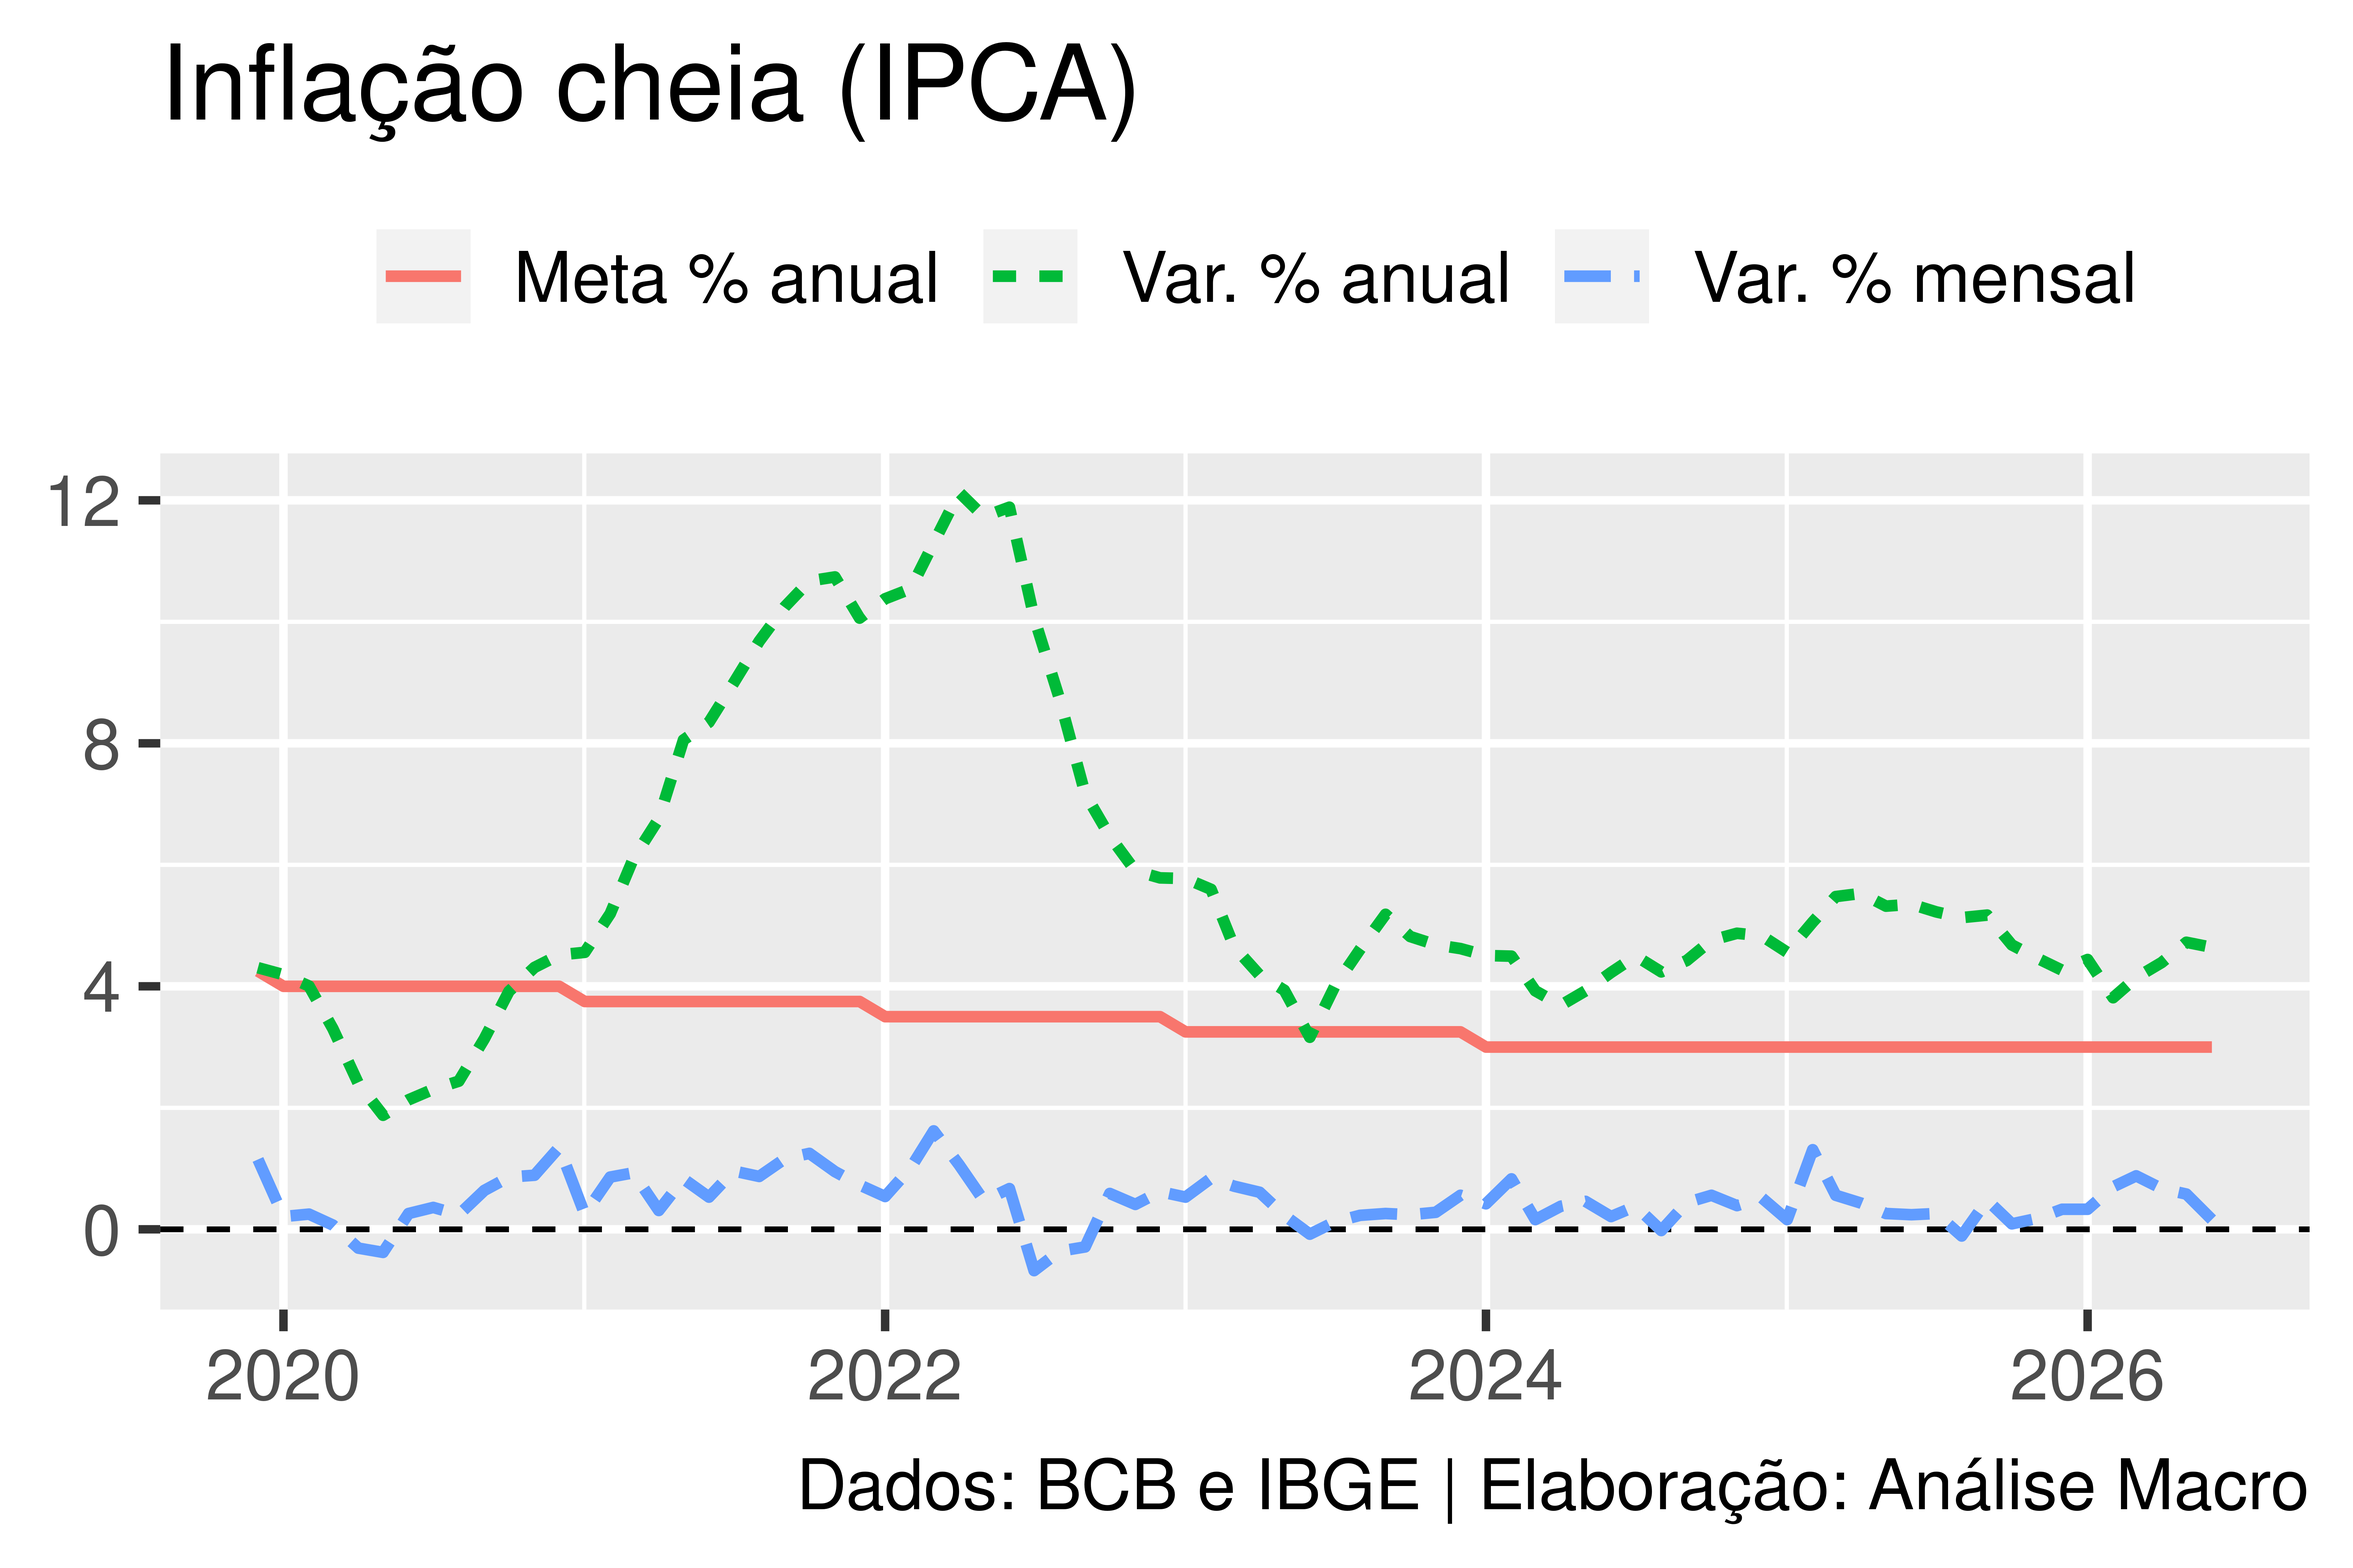
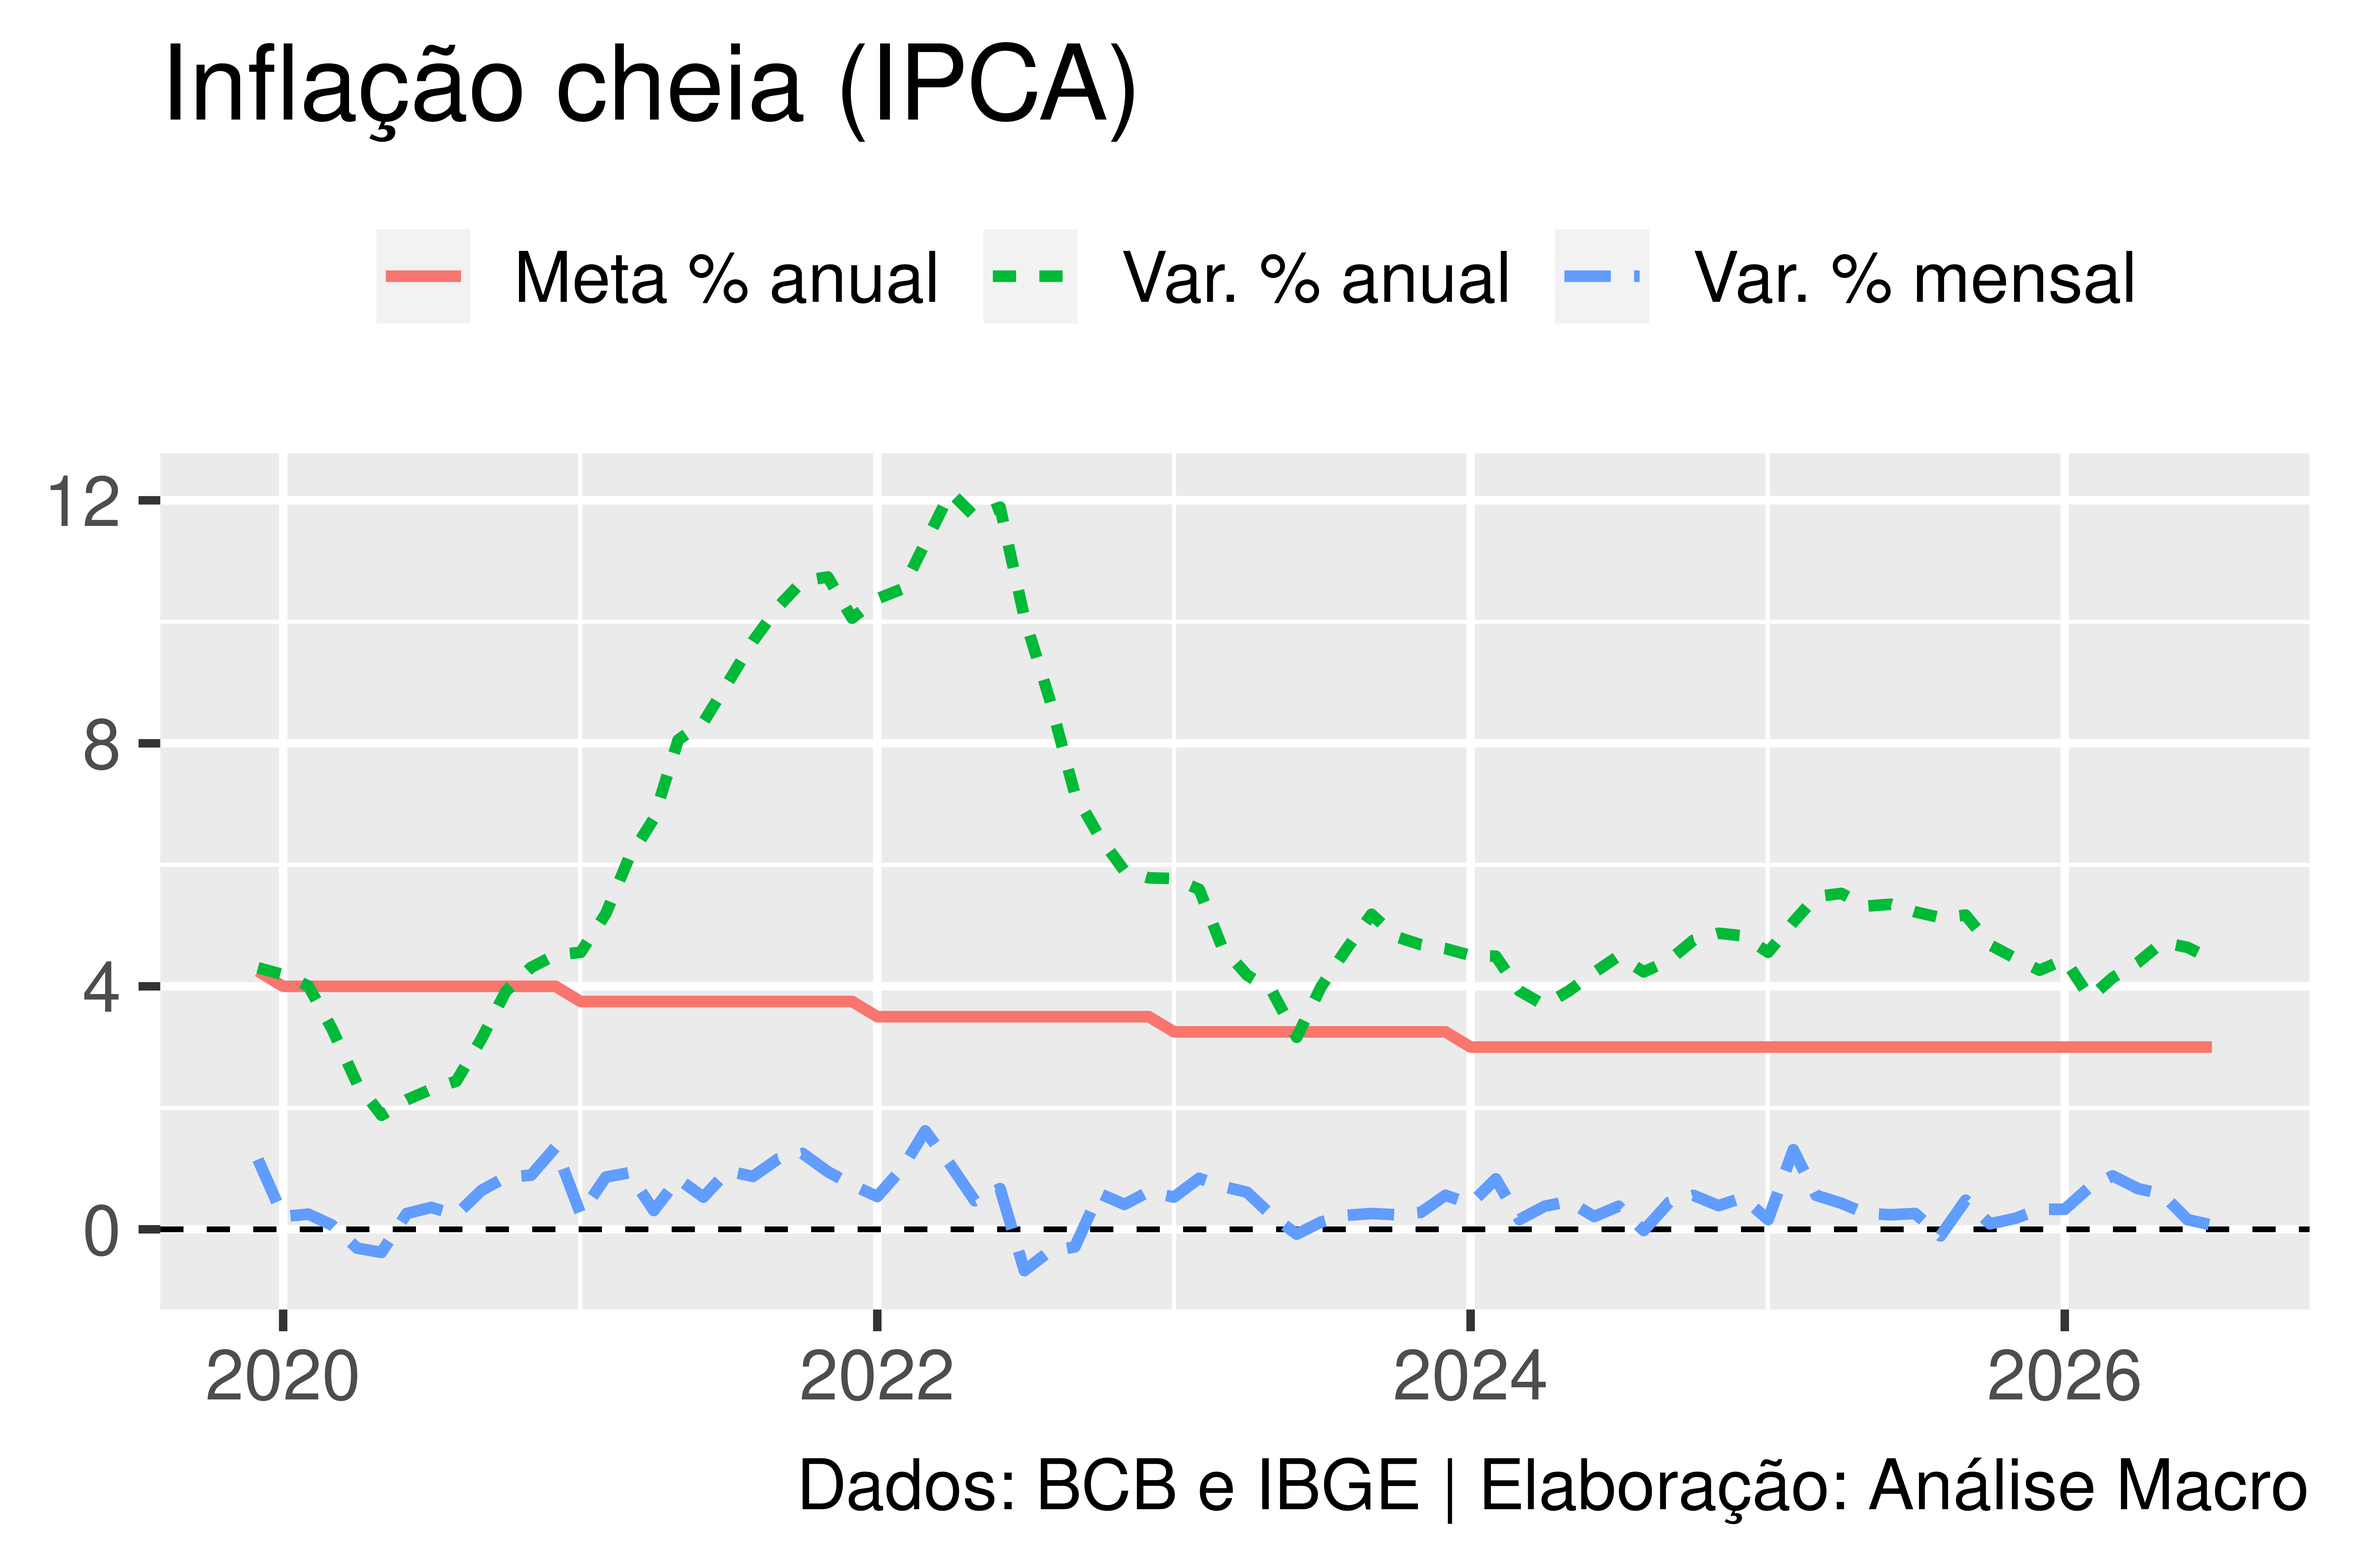
Atualização de relatório automatizada

diff --git a/relatório_ipca/ipca.html b/relatório_ipca/ipca.html
@@ -79,8 +79,8 @@ ul.task-list li input[type="checkbox"] {
 <h2 class="anchored" data-anchor-id="inflação-cheia">Inflação cheia</h2>
 <p>Principais destaques para o Índice nacional de preços ao consumidor-amplo (IPCA):</p>
 <ul>
-<li>O IPCA variou 0,16% no mês de 06/2026 em relação ao mês anterior.</li>
-<li>Em termos anuais, o IPCA acumula 4,64% nos últimos 12 meses.</li>
+<li>O IPCA variou 0,07% no mês de 07/2026 em relação ao mês anterior.</li>
+<li>Em termos anuais, o IPCA acumula 4,44% nos últimos 12 meses.</li>
 <li>Para o ano de 2026 a meta de inflação é de 3,00%. As informações são, quando não explicitamente referenciadas, do IBGE.</li>
 </ul>
 <div class="callout callout-style-default callout-note callout-titled">
